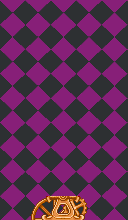
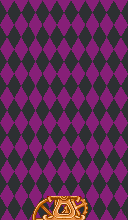
Edited the sprites to fix allignment
Also removed the offset magic number from the code. Further edits are
coming to the code

diff --git a/core/src/com/group66/game/cannon/Cannon.java b/core/src/com/group66/game/cannon/Cannon.java
@@ -139,8 +139,8 @@ public class Cannon {
 	public void draw(SpriteBatch batch) {
 		//batch.draw(cannon_texture, hitbox.x, hitbox.y, BALL_RAD, BALL_RAD);
 
-		batch.draw(cannon_texture_region, x - width / 2f - 3, y - height / 2f + 23, 
-				width / 2f, height / 2f, width, height, 5 / 2, 1, angle, true);
+		batch.draw(cannon_texture_region, x - width / 2f, y - height / 2f, 
+				width / 2f, height / 2f, width, height, 1, 1, angle, true);
 
 		//batch.draw(cannon_texture_region, x - width / 2f, y - height / 2f, 	
 		//width / 2f, height / 2f, width, height, 1, 1, angle, true);
